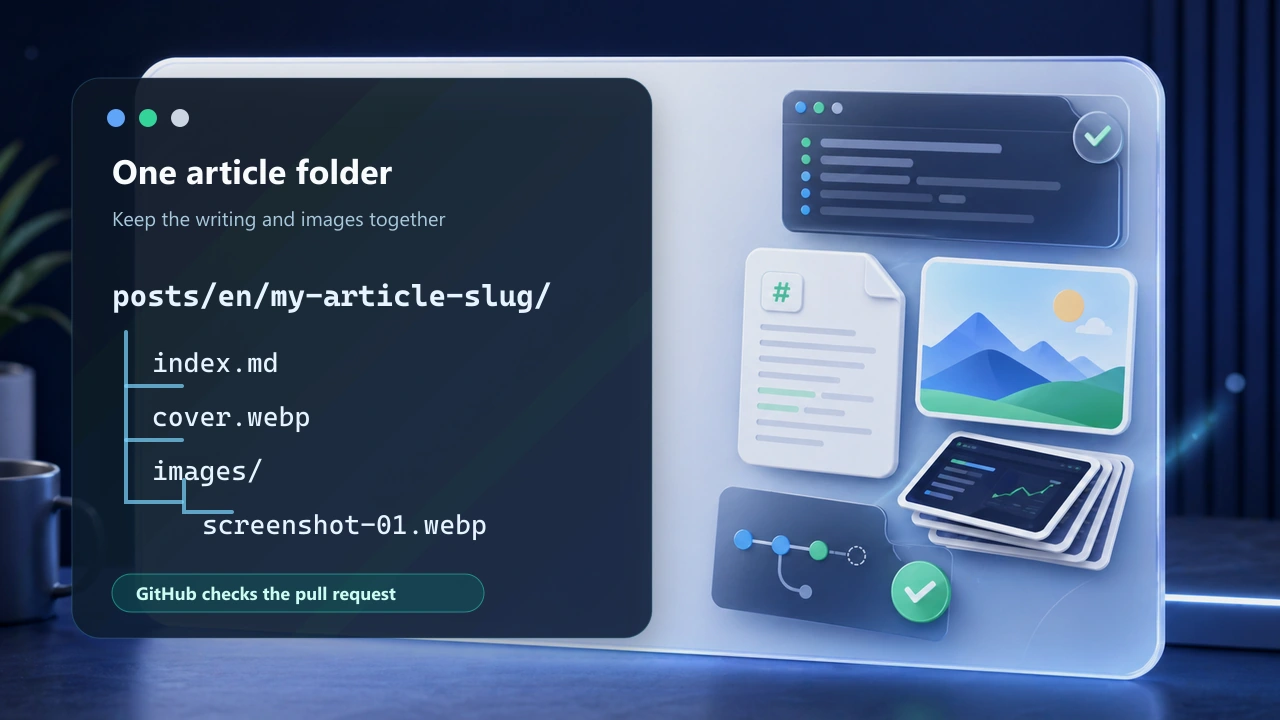
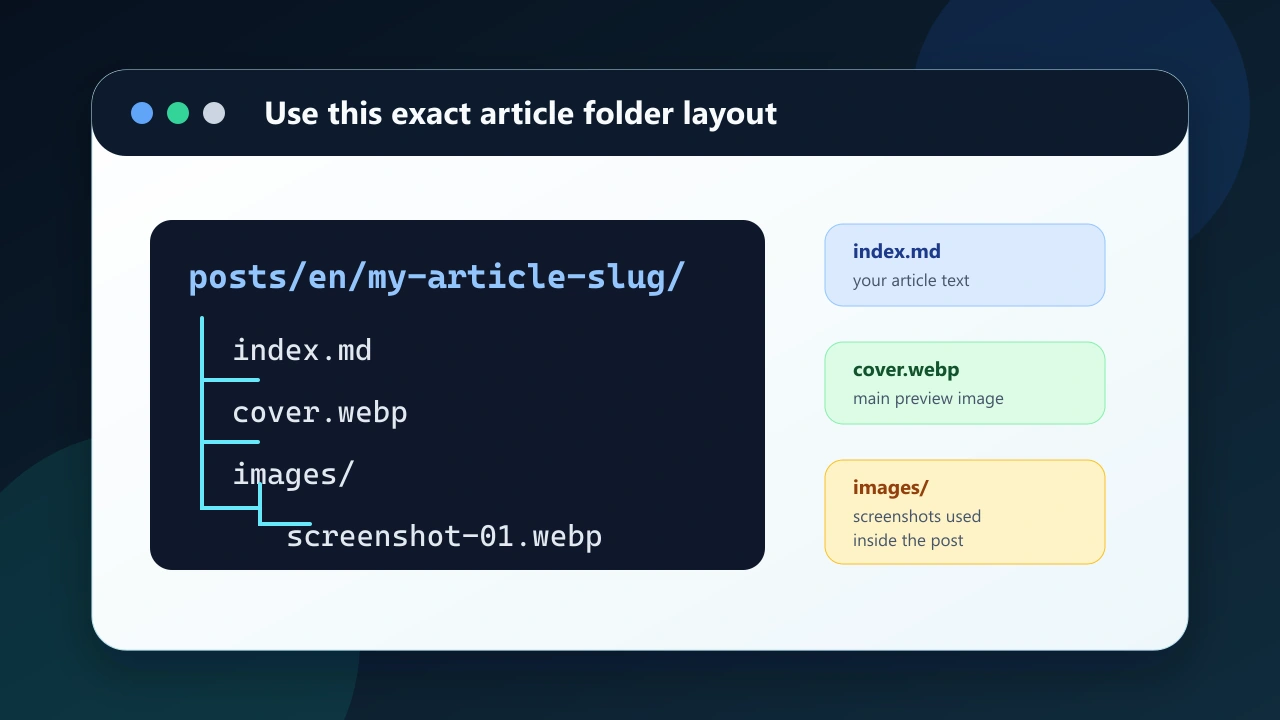
docs: clarify article folder paths

diff --git a/posts/en/how-to-contribute-to-evotec-blog/index.md b/posts/en/how-to-contribute-to-evotec-blog/index.md
@@ -31,6 +31,18 @@ Put the Markdown file, cover image, and screenshots in the same article folder:
 
 ![A visual folder structure showing one article folder with index.md, cover.webp, and an images folder](./images/article-folder-structure.webp)
 
+Use this shape:
+
+```text
+posts/en/my-article-slug/
+  index.md
+  cover.webp
+  images/
+    screenshot-01.webp
+```
+
+The first folder after `posts/` is the language. The next folder is the article slug. Everything used by that article stays inside that folder.
+
 That small bit of structure makes the whole process calmer. Reviewers can see the article and its images together, and the publishing importer can copy everything into stable website paths without guessing where files belong.
 
 ## 2. Tell Readers Who You Are
